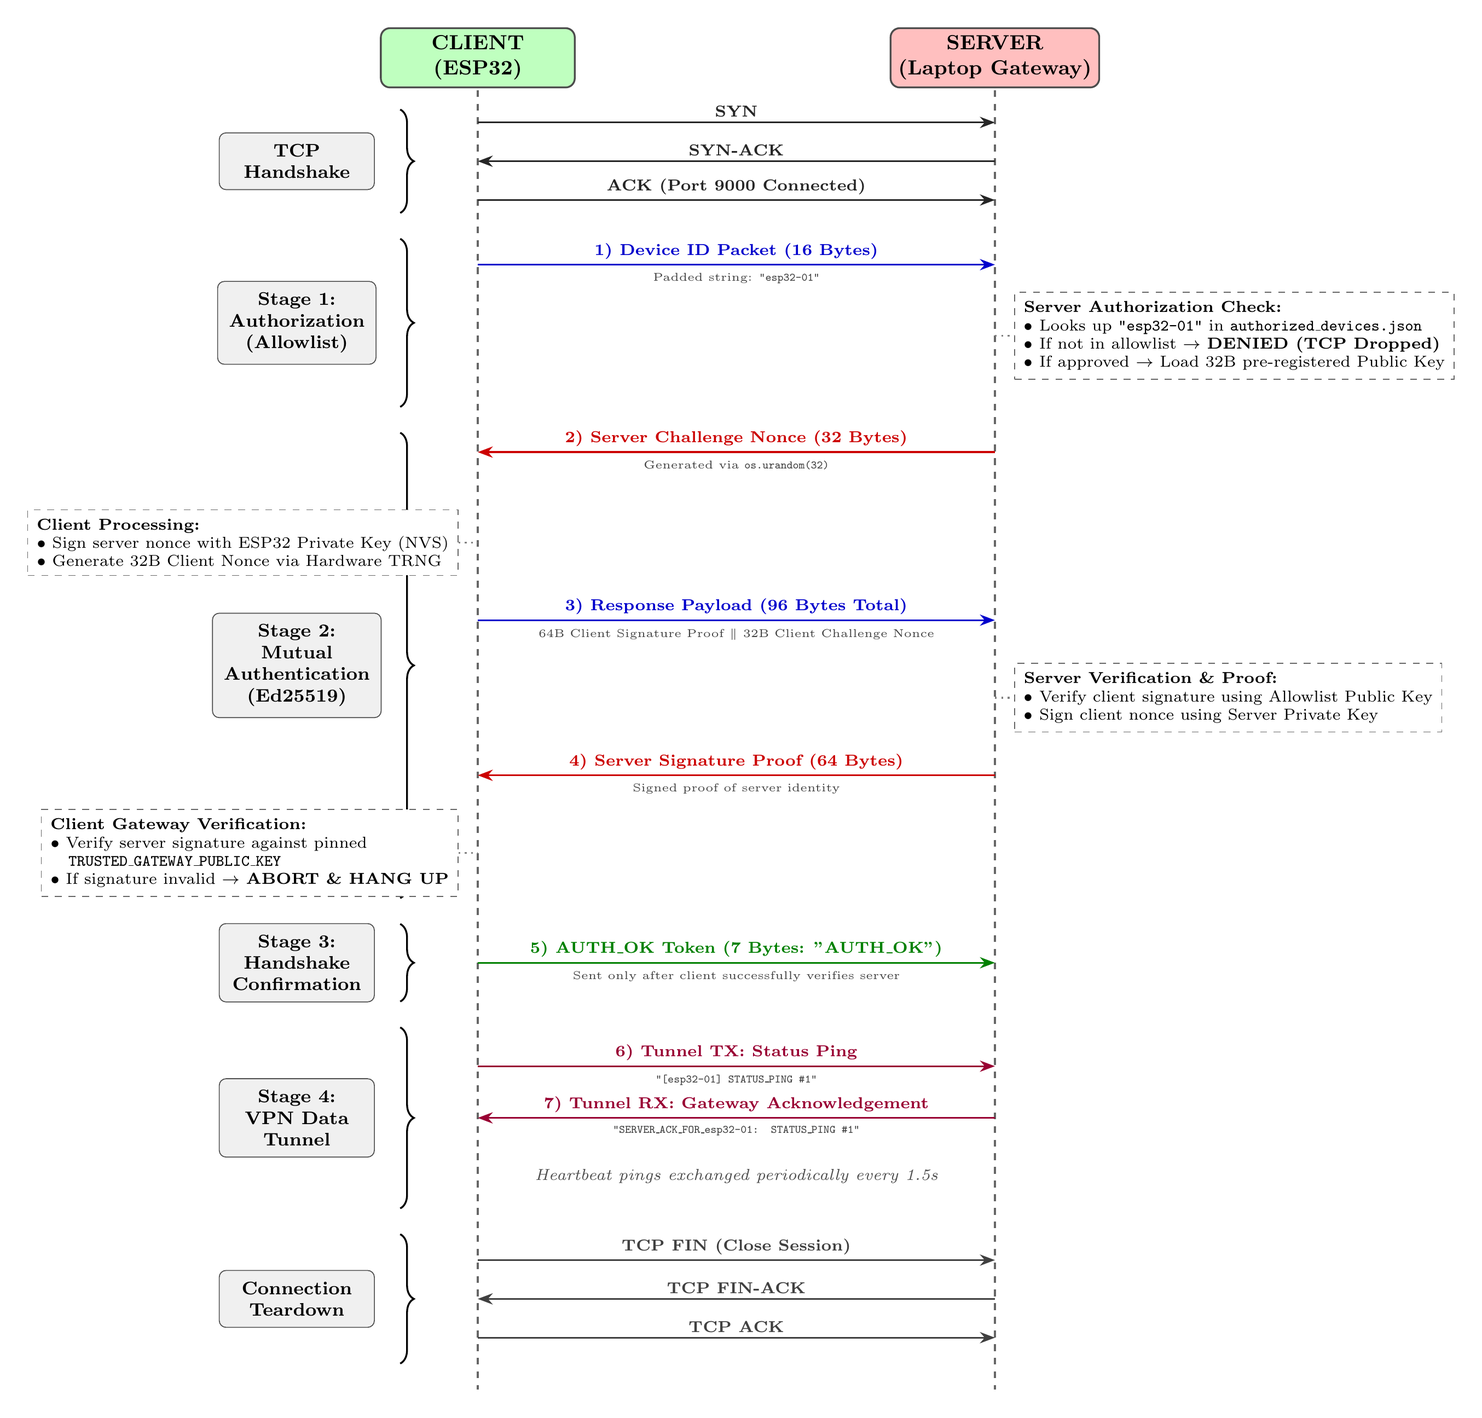
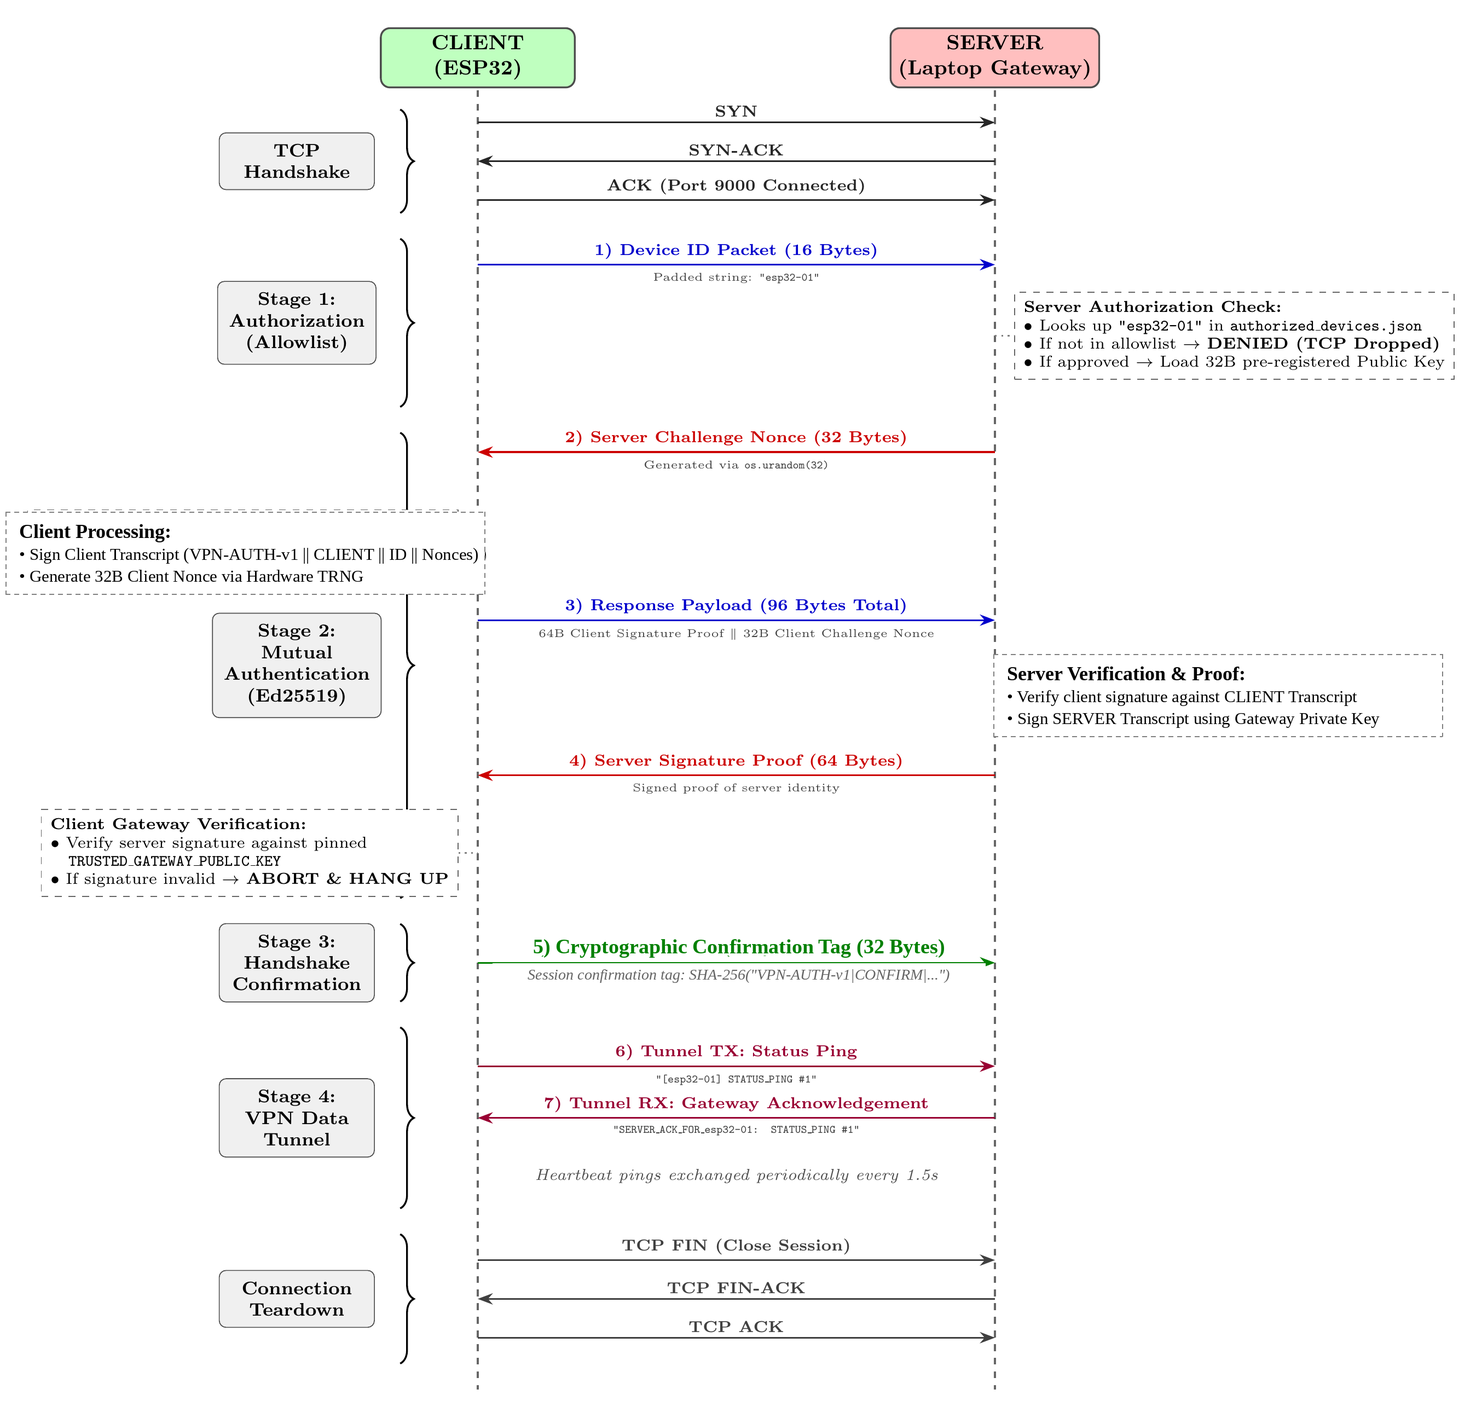
Implement mutual authentication with transcript binding and cryptographic confirmation

Changed region(s): [[0.3722, 0.6484, 0.6514, 0.7102], [0.6824, 0.4631, 0.9306, 0.5249], [0.0, 0.3705, 0.3102, 0.4323]]

diff --git a/Non_PQC_VPN/esp32_client/AuthManager.cpp b/Non_PQC_VPN/esp32_client/AuthManager.cpp
@@ -19,6 +19,21 @@ bool AuthManager::readExact(uint8_t* buffer, size_t count, unsigned long timeout
   return (bytesRead == count);                                 // Returns true only if all bytes arrived
 }
 
+// Helper: Builds domain-separated SHA-256 transcript hash
+void AuthManager::buildTranscriptHash(const char* role, const uint8_t* serverNonce, const uint8_t* clientNonce, uint8_t* outDigest) {
+  crypto_hash_sha256_state state;
+  crypto_hash_sha256_init(&state);
+  crypto_hash_sha256_update(&state, (const unsigned char*)"VPN-AUTH-v1|", 12);
+  crypto_hash_sha256_update(&state, (const unsigned char*)role, strlen(role));
+  crypto_hash_sha256_update(&state, (const unsigned char*)"|", 1);
+  crypto_hash_sha256_update(&state, (const unsigned char*)_identity.getDeviceId(), strlen(_identity.getDeviceId()));
+  crypto_hash_sha256_update(&state, (const unsigned char*)"|", 1);
+  crypto_hash_sha256_update(&state, serverNonce, CHALLENGE_NONCE_LENGTH);
+  crypto_hash_sha256_update(&state, (const unsigned char*)"|", 1);
+  crypto_hash_sha256_update(&state, clientNonce, CHALLENGE_NONCE_LENGTH);
+  crypto_hash_sha256_final(&state, outDigest);
+}
+
 // Executes two-stage handshake: Authorization check followed by challenge-response authentication
 bool AuthManager::performMutualAuthentication() {
   Serial.println("[AUTH] Starting handshake...");
@@ -36,15 +51,19 @@ bool AuthManager::performMutualAuthentication() {
     return false;                                              // Handshake failed (not on allowlist or timeout)
   }
 
-  // --- STAGE 3: Sign Server Challenge and Create Client Challenge ---
-  uint8_t clientSignature[SIGNATURE_LENGTH];                   // 64-byte buffer for client signature
-  if (!_identity.sign(serverChallenge, sizeof(serverChallenge), clientSignature)) {
-    Serial.println("[AUTH] Failed to sign server challenge.");
-    return false;
-  }
-
+  // --- STAGE 3: Generate Client Challenge and Sign Domain-Separated Transcript ---
   uint8_t clientChallenge[CHALLENGE_NONCE_LENGTH];             // 32-byte buffer for client challenge
   esp_fill_random(clientChallenge, sizeof(clientChallenge));   // Generate fresh random numbers via TRNG
+
+  // Build domain-separated transcript digest for CLIENT: SHA-256("VPN-AUTH-v1|CLIENT|<id>|<srv_nonce>|<cli_nonce>")
+  uint8_t clientTranscriptDigest[crypto_hash_sha256_BYTES];
+  buildTranscriptHash("CLIENT", serverChallenge, clientChallenge, clientTranscriptDigest);
+
+  uint8_t clientSignature[SIGNATURE_LENGTH];                   // 64-byte buffer for client signature
+  if (!_identity.sign(clientTranscriptDigest, sizeof(clientTranscriptDigest), clientSignature)) {
+    Serial.println("[AUTH] Failed to sign client transcript.");
+    return false;
+  }
 
   // --- STAGE 4: Send Client Signature + Client Challenge (96 bytes total) ---
   _client.write(clientSignature, sizeof(clientSignature));     // Send 64-byte signature proof
@@ -58,23 +77,29 @@ bool AuthManager::performMutualAuthentication() {
     return false;                                              // Stop if server takes too long
   }
 
-  // Verify server signature against the pinned gateway public key
+  // Build domain-separated transcript digest for SERVER: SHA-256("VPN-AUTH-v1|SERVER|<id>|<srv_nonce>|<cli_nonce>")
+  uint8_t serverTranscriptDigest[crypto_hash_sha256_BYTES];
+  buildTranscriptHash("SERVER", serverChallenge, clientChallenge, serverTranscriptDigest);
+
+  // Verify server signature against the pinned gateway public key and server transcript
   int verifyResult = crypto_sign_verify_detached(
     serverSignature,
-    clientChallenge,
-    sizeof(clientChallenge),
+    serverTranscriptDigest,
+    sizeof(serverTranscriptDigest),
     _trustedGatewayKey
   );
 
   if (verifyResult != 0) {
-    Serial.println("[AUTH] Server signature INVALID - untrusted gateway!");
+    Serial.println("[AUTH] Server signature INVALID - untrusted gateway or transcript mismatch!");
     return false;                                              // Reject fake or untrusted server
   }
 
-  // --- STAGE 6: Send AUTH_OK Confirmation to Server ---
-  _client.write((const uint8_t*)AUTH_CONFIRM_TOKEN, strlen(AUTH_CONFIRM_TOKEN)); // Send confirmation token
+  // --- STAGE 6: Send Cryptographic CONFIRM Tag to Server ---
+  uint8_t confirmTag[CONFIRMATION_TAG_LENGTH];
+  buildTranscriptHash("CONFIRM", serverChallenge, clientChallenge, confirmTag);
+  _client.write(confirmTag, sizeof(confirmTag));               // Send 32-byte cryptographic confirmation tag
   _client.flush();                                             // Push confirmation out over Wi-Fi
-  Serial.println("[AUTH] Gateway signature verified. Sent AUTH_OK confirmation.");
+  Serial.println("[AUTH] Gateway signature verified. Sent cryptographic CONFIRM tag.");
   Serial.println("[AUTH] Mutual authentication successful.\n");
   return true;                                                 // Both parties authenticated successfully!
 }

diff --git a/Non_PQC_VPN/laptop_server/tunnel_session.py b/Non_PQC_VPN/laptop_server/tunnel_session.py
@@ -3,7 +3,7 @@ from config import (
     DEVICE_ID_LENGTH,        # 16-byte fixed buffer size for device identifier
     CHALLENGE_NONCE_LENGTH,  # 32-byte fresh random challenge number
     SIGNATURE_LENGTH,        # 64-byte Ed25519 digital signature length
-    AUTH_CONFIRMATION_TOKEN, # 7-byte confirmation token ("AUTH_OK") sent by ESP32
+    CONFIRMATION_TAG_LENGTH, # 32-byte SHA-256 confirmation tag sent by ESP32
     HANDSHAKE_TIMEOUT        # 10.0 seconds allowed to finish the handshake
 )
 
@@ -71,32 +71,45 @@ class VpnSession:
         esp32_signature = client_response[:SIGNATURE_LENGTH]        # First 64 bytes are client signature
         esp32_challenge_nonce = client_response[SIGNATURE_LENGTH:]  # Remaining 32 bytes are client challenge
 
-        # Verify client's signature against the public key registered in the allowlist
-        is_valid = self.crypto.verify_client_signature(
+        # Verify client's signature against the domain-separated transcript hash
+        is_valid = self.crypto.verify_client_transcript(
             registered_pubkey_bytes,
             esp32_signature,
-            server_challenge_nonce
+            device_id,
+            server_challenge_nonce,
+            esp32_challenge_nonce
         )
 
         if not is_valid:
-            print(f"[{device_id}] [AUTHENTICATION] Client signature INVALID.")
+            print(f"[{device_id}] [AUTHENTICATION] Client signature INVALID (transcript mismatch or bad key).")
             return False, None  # Signature verification failed; drop connection
 
-        print(f"[{device_id}] [AUTHENTICATION] Client signature VALID.")
+        print(f"[{device_id}] [AUTHENTICATION] Client signature VALID (bound to session transcript).")
 
-        # Sign the ESP32's challenge nonce to prove server's own identity
-        server_signature = self.crypto.sign_challenge(esp32_challenge_nonce)
+        # Sign the session transcript as SERVER to prove server identity to client
+        server_signature = self.crypto.sign_transcript(
+            "SERVER",
+            device_id,
+            server_challenge_nonce,
+            esp32_challenge_nonce
+        )
         self.connection.sendall(server_signature)  # Send 64-byte server proof back to ESP32
-        print(f"[{device_id}] [AUTHENTICATION] Server proof sent. Waiting for client confirmation...")
+        print(f"[{device_id}] [AUTHENTICATION] Server transcript proof sent. Waiting for client confirmation...")
 
         # --- STAGE 3: Client Confirms Server Verification ---
-        # The client will only send AUTH_OK if it successfully verified our server proof
-        confirmation = self.receive_exact(len(AUTH_CONFIRMATION_TOKEN))
-        if confirmation != AUTH_CONFIRMATION_TOKEN:
-            print(f"[{device_id}] [AUTHENTICATION] FAILED - Client rejected server identity or disconnected!")
+        # The client will only send the 32-byte confirmation tag if it successfully verified our server proof
+        expected_confirm_tag = self.crypto.build_transcript_hash(
+            "CONFIRM",
+            device_id,
+            server_challenge_nonce,
+            esp32_challenge_nonce
+        )
+        confirmation = self.receive_exact(CONFIRMATION_TAG_LENGTH)
+        if confirmation != expected_confirm_tag:
+            print(f"[{device_id}] [AUTHENTICATION] FAILED - Client confirmation tag invalid or server rejected!")
             return False, None
 
-        print(f"[{device_id}] [AUTHENTICATION] Client accepted server proof (AUTH_OK).")
+        print(f"[{device_id}] [AUTHENTICATION] Client accepted server proof (Cryptographic CONFIRM tag verified).")
         print(f"[{device_id}] Mutual authentication successful.\n")
         return True, device_id  # Handshake fully verified and confirmed on both sides!
 

diff --git a/Non_PQC_VPN/laptop_server/crypto_engine.py b/Non_PQC_VPN/laptop_server/crypto_engine.py
@@ -59,14 +59,48 @@ class GatewayCrypto:
     def generate_challenge(self):  # Generates 32 fresh random bytes for a challenge nonce
         return os.urandom(CHALLENGE_NONCE_LENGTH)  # True random bytes from operating system
 
-    def sign_challenge(self, nonce_bytes):  # Signs a client challenge nonce using server's private key
-        return self._private_key.sign(nonce_bytes)  # Returns 64-byte Ed25519 signature
+    @staticmethod
+    def build_transcript_hash(role: str, device_id: str, server_nonce: bytes, client_nonce: bytes) -> bytes:
+        """
+        Constructs a domain-separated cryptographic transcript hash (SHA-256).
+        Format: "VPN-AUTH-v1|" + role + "|" + device_id + "|" + server_nonce + "|" + client_nonce
+        Prevents blind signing, relay attacks, and cross-protocol replay.
+        """
+        import hashlib
+        hasher = hashlib.sha256()
+        hasher.update(b"VPN-AUTH-v1|")
+        hasher.update(role.encode("utf-8"))
+        hasher.update(b"|")
+        hasher.update(device_id.encode("utf-8"))
+        hasher.update(b"|")
+        hasher.update(server_nonce)
+        hasher.update(b"|")
+        hasher.update(client_nonce)
+        return hasher.digest()
 
-    def verify_client_signature(self, client_public_bytes, signature_bytes, challenge_nonce):
-        """Verifies that the client signature was created by the owner of client_public_bytes."""
+    def sign_transcript(self, role: str, device_id: str, server_nonce: bytes, client_nonce: bytes) -> bytes:
+        """Signs the domain-separated transcript hash for this session using server's private key."""
+        digest = self.build_transcript_hash(role, device_id, server_nonce, client_nonce)
+        return self._private_key.sign(digest)
+
+    def verify_client_transcript(self, client_public_bytes: bytes, signature_bytes: bytes, device_id: str, server_nonce: bytes, client_nonce: bytes) -> bool:
+        """Verifies that the client's signature matches the domain-separated transcript hash."""
+        digest = self.build_transcript_hash("CLIENT", device_id, server_nonce, client_nonce)
         try:
             client_pubkey_obj = ed25519.Ed25519PublicKey.from_public_bytes(client_public_bytes)
-            client_pubkey_obj.verify(signature_bytes, challenge_nonce)  # Verify signature mathematically
-            return True   # Math verified: client holds the real private key
+            client_pubkey_obj.verify(signature_bytes, digest)
+            return True
         except Exception:
-            return False  # Math failed: invalid signature or wrong key
+            return False
+
+    def sign_challenge(self, nonce_bytes):  # Legacy fallback: signs raw nonce
+        return self._private_key.sign(nonce_bytes)
+
+    def verify_client_signature(self, client_public_bytes, signature_bytes, challenge_nonce):
+        """Legacy fallback: verifies signature over raw nonce."""
+        try:
+            client_pubkey_obj = ed25519.Ed25519PublicKey.from_public_bytes(client_public_bytes)
+            client_pubkey_obj.verify(signature_bytes, challenge_nonce)
+            return True
+        except Exception:
+            return False

diff --git a/Non_PQC_VPN/esp32_client/config.h b/Non_PQC_VPN/esp32_client/config.h
@@ -18,7 +18,7 @@ const char* const DEVICE_ID       = "esp32-01";       // Device ID name sent to 
 const size_t DEVICE_ID_LENGTH        = 16;  // Fixed 16-byte buffer for device ID packet
 const size_t CHALLENGE_NONCE_LENGTH  = 32;  // 32-byte fresh random challenge nonce
 const size_t SIGNATURE_LENGTH        = 64;  // 64-byte Ed25519 digital signature length
-const char* const AUTH_CONFIRM_TOKEN = "AUTH_OK"; // 7-byte confirmation sent to server after verifying gateway
+const size_t CONFIRMATION_TAG_LENGTH = 32; // 32-byte SHA-256 confirmation tag sent to server after verifying gateway
 
 // --- Pinned Server Public Key ---
 // Server's fixed public key saved here so ESP32 only trusts your laptop and ignores fake servers

diff --git a/Non_PQC_VPN/laptop_server/config.py b/Non_PQC_VPN/laptop_server/config.py
@@ -9,7 +9,7 @@ HANDSHAKE_TIMEOUT = 10.0  # Seconds allowed for an incoming client to complete t
 DEVICE_ID_LENGTH = 16        # ESP32 sends a 16-byte fixed-width name string (e.g. "esp32-01")
 CHALLENGE_NONCE_LENGTH = 32  # 32-byte fresh random challenge number
 SIGNATURE_LENGTH = 64        # Ed25519 digital signatures are always exactly 64 bytes long
-AUTH_CONFIRMATION_TOKEN = b"AUTH_OK"  # 7-byte confirmation sent by ESP32 after verifying server proof
+CONFIRMATION_TAG_LENGTH = 32  # 32-byte SHA-256 confirmation tag sent by client after verifying server proof
 
 # --- Path to Allowlist File ---
 ALLOWLIST_FILE = Path(__file__).parent / "authorized_devices.json"  # File with approved ESP32 public keys

diff --git a/Non_PQC_VPN/esp32_client/AuthManager.h b/Non_PQC_VPN/esp32_client/AuthManager.h
@@ -14,6 +14,9 @@ private:
   // Helper method: Blocks until exact number of bytes arrive or timeout expires
   bool readExact(uint8_t* buffer, size_t count, unsigned long timeoutMs = 7000);
 
+  // Helper method: Constructs domain-separated SHA-256 transcript hash
+  void buildTranscriptHash(const char* role, const uint8_t* serverNonce, const uint8_t* clientNonce, uint8_t* outDigest);
+
 public:
   // Constructor: Takes network client, identity instance, and pinned gateway public key
   AuthManager(WiFiClient& client, const DeviceIdentity& identity, const uint8_t* trustedGatewayKey);

diff --git a/Non_PQC_VPN/README.md b/Non_PQC_VPN/README.md
@@ -1,68 +1,69 @@
-# Non-PQC VPN Baseline
+# Classical IoT VPN (ESP32 to Gateway)
 
-This folder has the classical (non-quantum) VPN implementation between an ESP32 and a laptop gateway, along with our benchmark results.
-
----
-
-## Folder Structure
-
-* `esp32_client/`: Arduino C++ code for the ESP32 board (`DeviceIdentity`, `AuthManager`, `config.h`, and `esp32_client.ino`).
-* `laptop_server/`: Python gateway server (`server.py`, `tunnel_session.py`, `crypto_engine.py`, `config.py`, and `authorized_devices.json`).
-* `benchmarking/`: All raw test data, plots, and PDF reports for mutual authentication and key exchange algorithms.
-* `sequence_diagram.png`: Visual handshake diagram showing how the ESP32 and gateway authenticate each other.
+A lightweight mutual authentication and secure communication tunnel between an ESP32 microcontroller and a Python gateway server using Ed25519 digital signatures and SHA-256 session transcript binding.
 
 ---
 
-## How It Works
+## Directory Overview
+
+* **`esp32_client/`**: ESP32 C++ firmware for Arduino IDE (`esp32_client.ino`, `AuthManager`, `DeviceIdentity`, `config.h`).
+* **`laptop_server/`**: Python gateway server (`server.py`, `tunnel_session.py`, `crypto_engine.py`, `authorized_devices.json`).
+* **`sequence_diagram.png`**: Protocol flow diagram showing the mutual authentication exchange.
+* **`benchmarking/`**: Standalone microcontroller benchmarks and analysis reports for classical cryptography.
+
+---
+
+## Protocol Handshake Flow
 
 ![Handshake Sequence Diagram](sequence_diagram.png)
 
-1. **TCP Connection**: The ESP32 connects to the laptop server over local Wi-Fi on port 9000.
-2. **Device Allowlist Check**: The ESP32 sends its device ID (`esp32-01`). The server checks `authorized_devices.json`. If the device is not registered, the server drops the connection immediately.
-3. **Mutual Authentication (Ed25519)**:
-   - The server sends a random 32-byte challenge nonce to the ESP32.
-   - The ESP32 signs this nonce with its private key (stored in NVS flash) and generates its own random challenge nonce, sending both back (96 bytes total).
-   - The server verifies the ESP32 signature using the pre-registered public key from the allowlist. Then, the server signs the ESP32 challenge with its own private key and sends it back (64 bytes).
-   - The ESP32 verifies the server's signature using the hardcoded server public key in `config.h`.
-4. **Handshake Confirmation**: Once the ESP32 verifies the server, it sends `AUTH_OK`. Only then does the server mark the tunnel as established.
-5. **Data Tunnel**: Both sides now safely exchange encrypted tunnel packets and periodic heartbeat pings.
+1. **TCP Connection**: The ESP32 connects to the gateway over Wi-Fi on TCP port 9000.
+2. **Device Authorization**: The ESP32 sends its 16-byte Device ID (`esp32-01`). The server validates the ID against `authorized_devices.json` and drops unauthorized devices.
+3. **Mutual Challenge-Response**:
+   * The server sends a fresh 32-byte random challenge nonce.
+   * The ESP32 samples 32 bytes of physical entropy from its hardware TRNG (`esp_fill_random`).
+   * Both sides construct a session transcript:
+     `SHA-256("VPN-AUTH-v1|" + Role + "|" + DeviceID + "|" + ServerNonce + "|" + ClientNonce)`
+   * **Client Authentication**: The ESP32 signs the transcript (`Role = "CLIENT"`) with its Ed25519 private key and sends the 64-byte signature with its nonce. The server verifies the signature using the pre-registered public key.
+   * **Server Authentication**: The gateway signs the transcript (`Role = "SERVER"`) and sends its 64-byte signature back. The ESP32 verifies it using the pinned gateway public key.
+4. **Cryptographic Confirmation**: The ESP32 sends a 32-byte confirmation tag (`SHA-256("VPN-AUTH-v1|CONFIRM|...")`). The server verifies this digest before transitioning the session to the active tunnel state.
+5. **Active Tunnel**: The client and server begin bidirectional data exchange and periodic status pings.
 
 ---
 
-## Benchmark Highlights
+## Quickstart Guide
 
-We tested these algorithms on real ESP32 hardware (Xtensa dual-core @ 240 MHz):
-
-* **Mutual Authentication (`benchmarking/mutual_auth_benchmark/`)**:
-  * **Ed25519**: ~22 ms signing time, 64-byte signature. Best speed and smallest memory usage on ESP32. (Selected algorithm)
-  * **ECDSA P-256**: ~48 ms signing time, 70–72 byte DER signature.
-  * **RSA-3072**: ~1850 ms signing time, 384-byte signature. Far too heavy and slow for microcontrollers.
-
-* **Key Exchange (`benchmarking/key_exchange_benchmark/`)**:
-  * **X25519**: Fast Curve25519 scalar multiplication with compact 32-byte keys. (Selected algorithm)
-  * **ECDH P-256**: Standard NIST curve, 64-byte keys.
-  * **DH-2048**: Classic Diffie-Hellman, 256-byte keys. Much slower on embedded hardware.
-
----
-
-## How to Run
-
-### 1. Start the Laptop Server
+### 1. Start the Server (Laptop)
 
 ```bash
 cd laptop_server
 python3 server.py
 ```
-The server will detect your local IP address and start listening on port 9000.
+The server will print its local IP address, public key, and listen for incoming connections on port 9000.
 
-### 2. Flash the ESP32
+### 2. Configure and Flash the Client (ESP32)
 
-1. Open `esp32_client/config.h` and put your Wi-Fi name, password, and the laptop's IP address:
+1. Open `esp32_client/config.h` and verify your network settings:
    ```cpp
-   #define WIFI_SSID     "Your_WiFi_Name"
-   #define WIFI_PASSWORD "Your_WiFi_Password"
-   #define VPN_SERVER_IP "192.168.1.X"   // Put your laptop IP here
-   #define VPN_SERVER_PORT 9000
+   const char* const WIFI_SSID     = "Your_WiFi_SSID";
+   const char* const WIFI_PASSWORD = "Your_WiFi_Password";
+   const char* const GATEWAY_IP    = "10.202.171.216"; // IP address printed by server.py
+   const uint16_t    GATEWAY_PORT  = 9000;
    ```
-2. Open `esp32_client/esp32_client.ino` in Arduino IDE, select your ESP32 board, and upload.
-3. Open the Serial Monitor at **115200 baud** to see the handshake complete.
+2. Open `esp32_client/esp32_client.ino` in Arduino IDE.
+3. Select your ESP32 board and COM port, then click **Upload**.
+4. Open the Serial Monitor at **115200 baud** to monitor the connection and authentication.
+
+---
+
+## Performance Summary (ESP32 @ 240 MHz)
+
+Cryptographic operations benchmarked directly on the ESP32 (Xtensa LX6 @ 240 MHz):
+
+| Metric | Ed25519 (Selected) | ECDSA P-256 | RSA-3072 |
+| :--- | :---: | :---: | :---: |
+| **Sign Latency** | **9.42 ms** | 158.58 ms | 375.81 ms |
+| **Verify Latency** | 19.80 ms | 313.88 ms | **1.71 ms** |
+| **Total Handshake Crypto** | **29.22 ms** | 472.46 ms | 377.52 ms |
+| **Signature Wire Size** | **64 bytes** | 71 bytes | 384 bytes |
+| **Peak Heap Overhead** | **108 bytes** | 300 bytes | 2,068 bytes |
